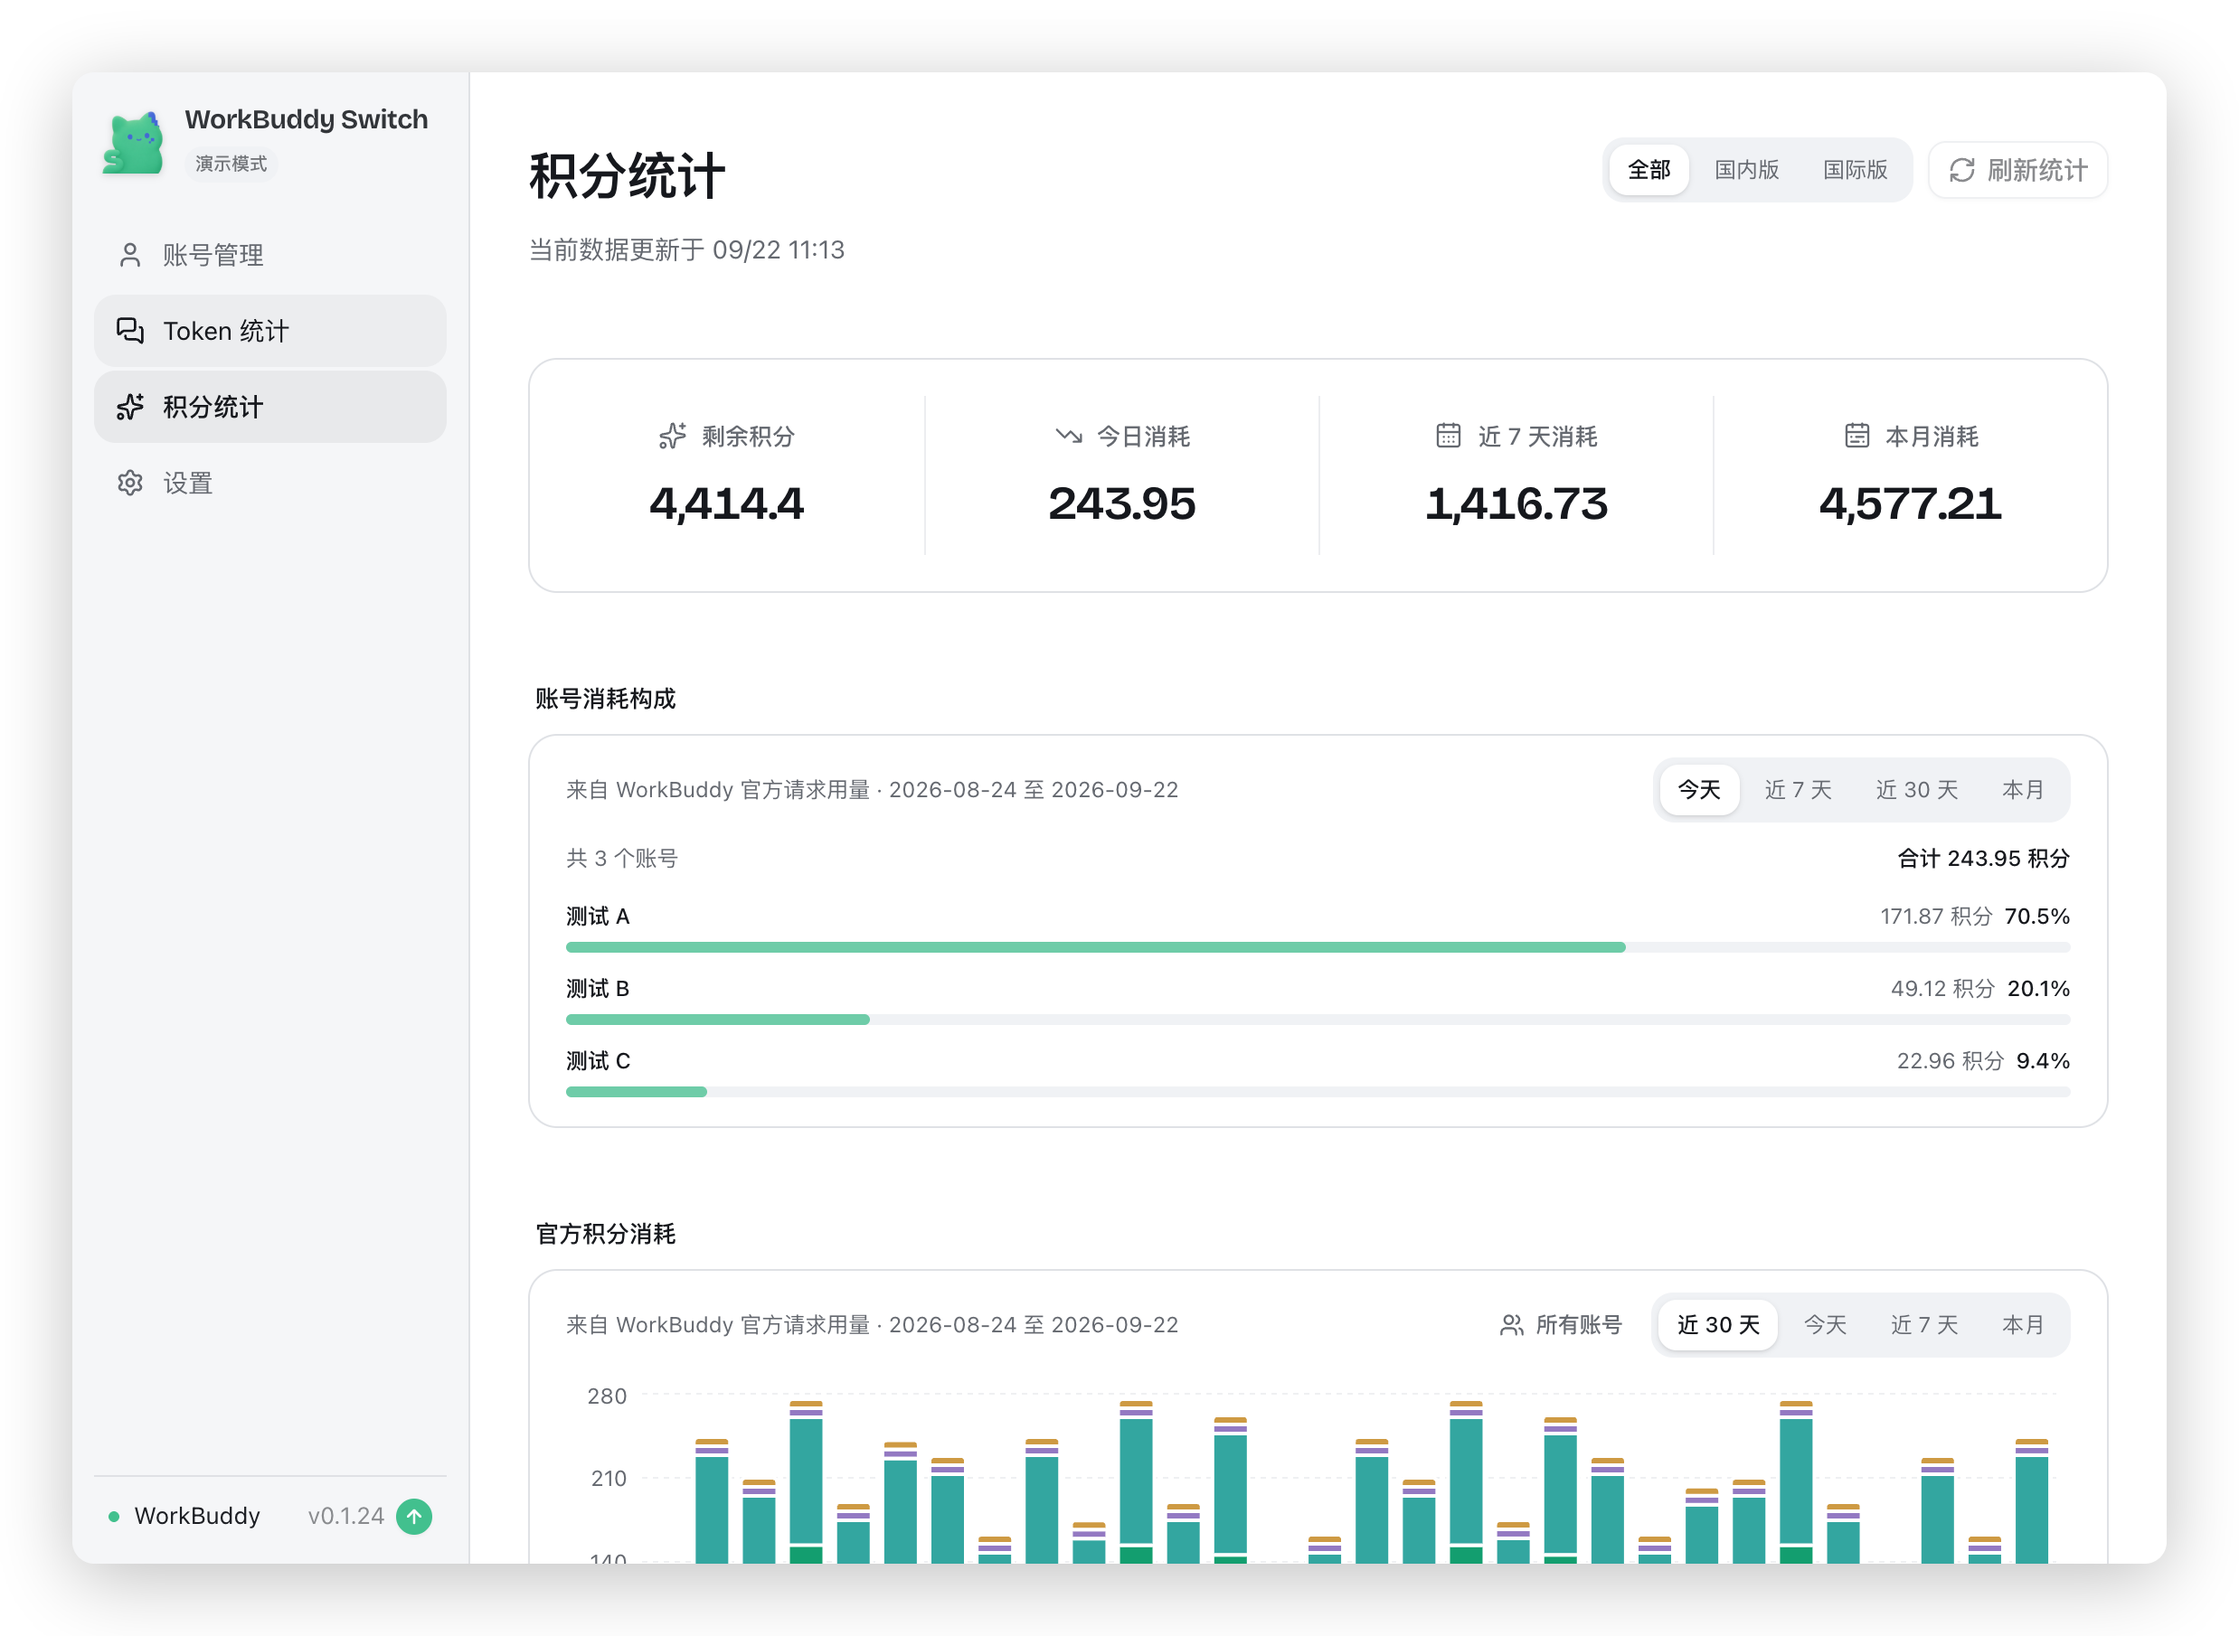
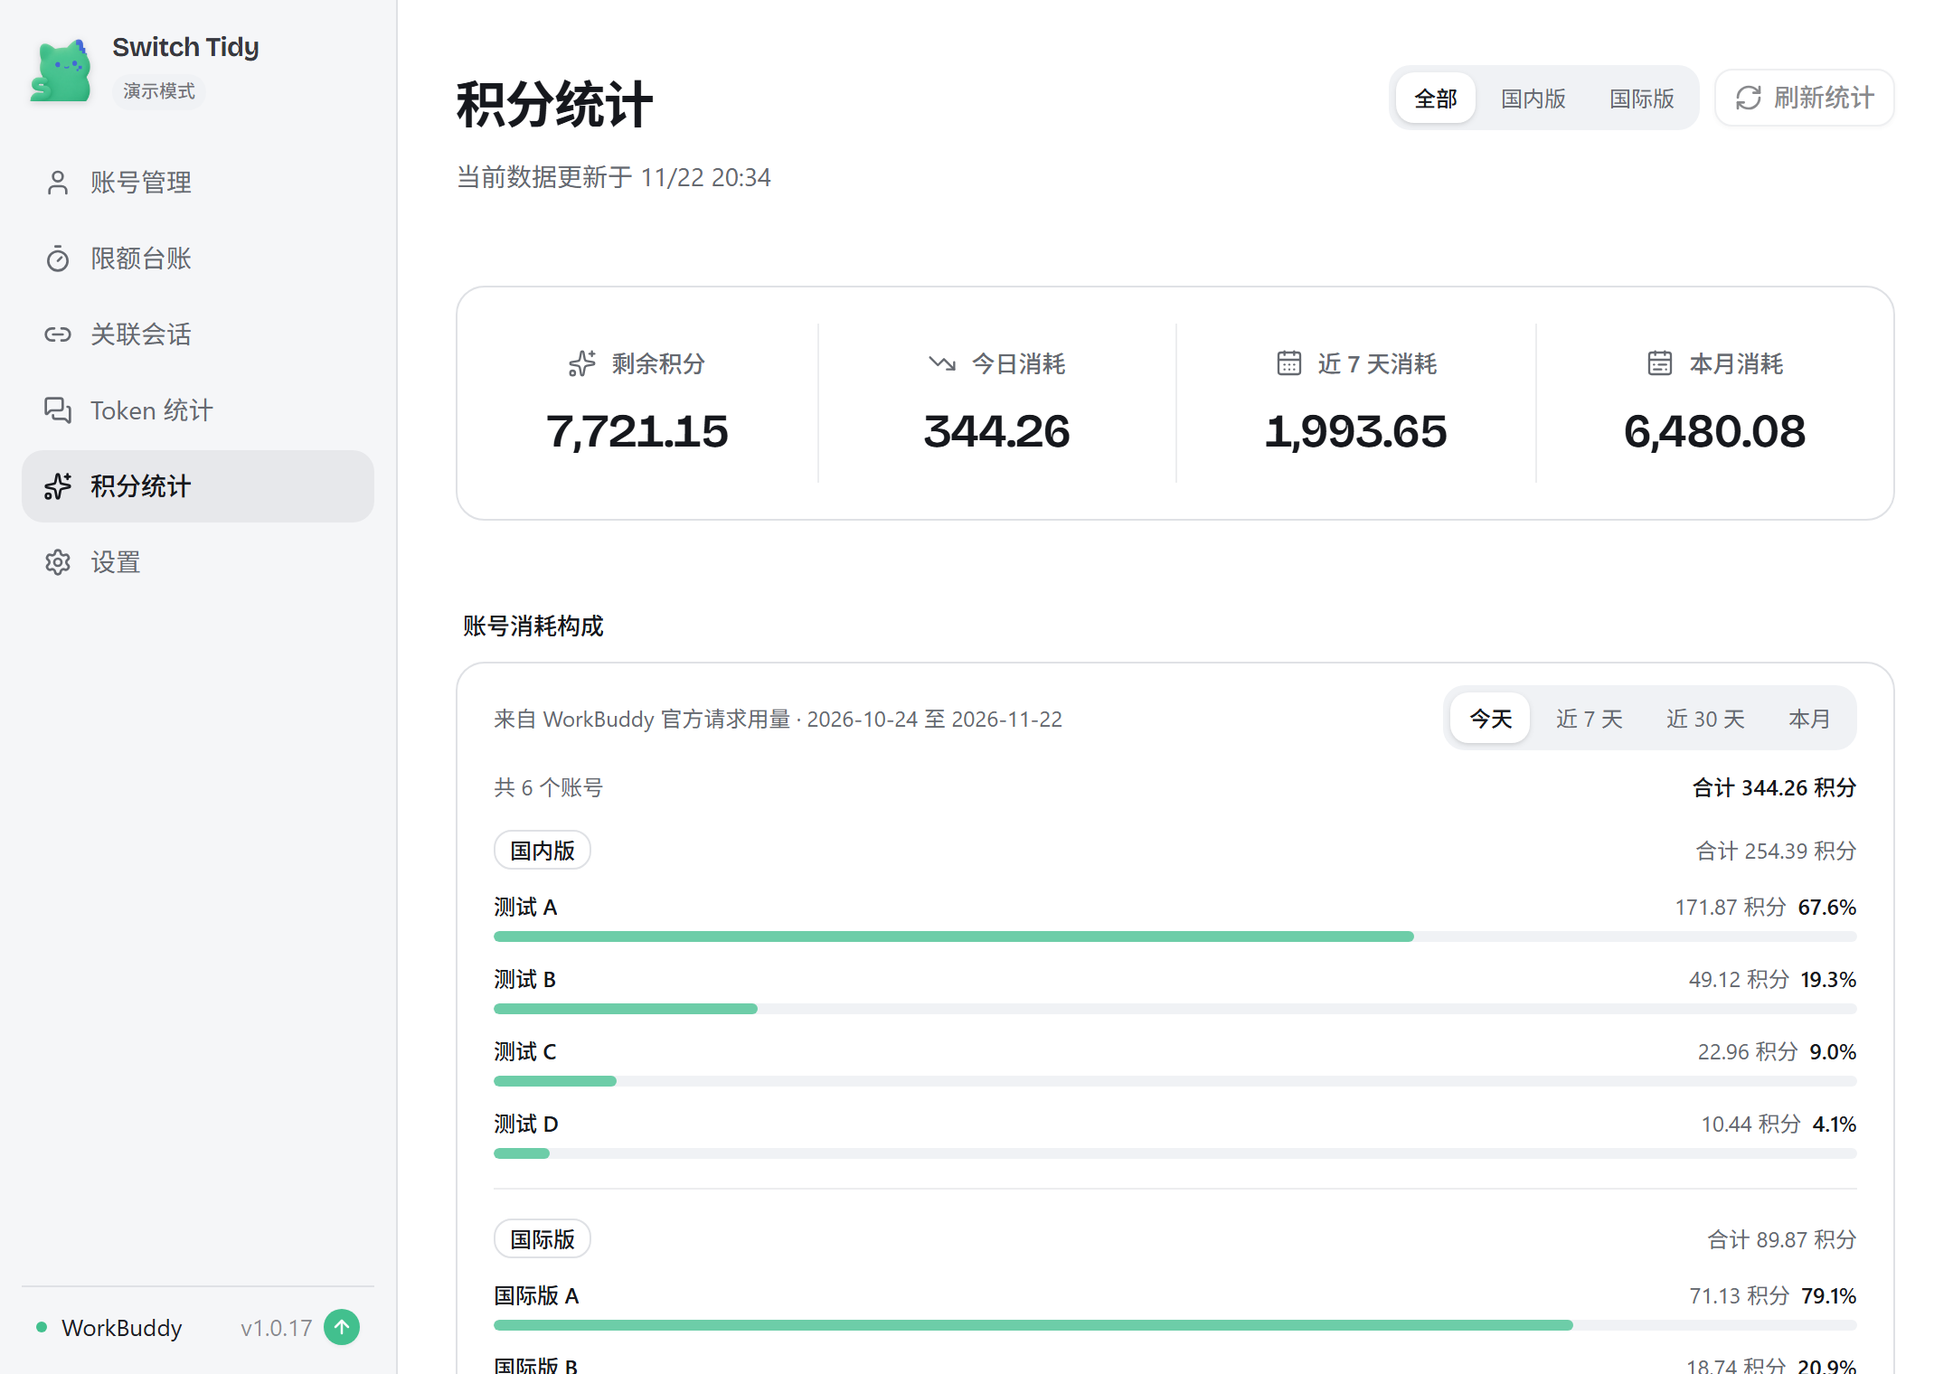
docs: 重生成界面截图、更新 README，并修掉演示数据里的写死版本与上游地址
截图与隐私
- 新增 scripts/capture-docs-screenshots.py：拉起演示模式 vite（VITE_DEMO_MODE=1）
  并用系统浏览器 + CDP 按路由截图，复用 smoke-webui.py 的 MiniWs，零新依赖。
  截图全部来自合成数据（测试 A/B/C、合成会话标题），不含真实账号/邮箱/令牌/本地路径。
- 重生成 5 张 README 截图（此前是 9-10 月的老图，缺逻辑会话/消息级差异/搜索等入口）。
- 删除 8 张未被引用且过期的旧图（含两张早期手工脱敏截图），减少误导与隐私面。
- README「界面预览」补充说明：截图由演示模式自动生成，并给出重生成命令。

演示数据修正
- 版本号不再写死 "0.1.24"：vite.config.ts 用 define 注入 package.json 版本，
  统一经 src/lib/app-version.ts 读取（单测环境用 typeof 兜底，避免 __APP_VERSION__ 未定义）。
- 演示的更新提示地址此前指向上游仓库，改为本项目的 releases 页。

README 内容
- 功能表补充 10 项 1.0.17 能力（逻辑会话 / 消息级差异 / 全局搜索 / 会话导出 /
  账号异常提醒 / 账号资料迁移 / 加密备份 / 存储管理 / 重复审计）。
- 更新日志把「未发布（开发中）」替换为 v1.0.17 摘要并链接 Release。

验证：tsc 通过；vite build 成功；运行时冒烟 __WB_MOUNTED__ === true；
前端 9 个测试文件全过；版本一致性与 PII 门禁通过。

diff --git a/src/lib/screenshot-demo.ts b/src/lib/screenshot-demo.ts
@@ -1,3 +1,5 @@
+import { APP_VERSION } from "@/lib/app-version";
+import { GITHUB_REPOSITORY_URL } from "@/lib/update";
 import type {
   AccountMeta, AppStatus, AutoRotateConfig, CheckinConfig, CheckinLog,
   CodeBuddyCliStatus, CodeBuddyCliSwitchResult, CodeBuddyCnIdeStatus, CreditExpiry, CreditOfficialUsageModel, CreditStatistics,
@@ -778,7 +780,7 @@ function buildDemoSessionGroups(
 /** Read-only demo response provider. It never reads or mutates real user data. */
 export function screenshotDemoResponse(command: string, args?: Record<string, unknown>): unknown {
   const demoAccounts = hydratedAccounts();
-  const appStatus: AppStatus = { running: true, authFile: "/demo/workbuddy/auth.json", current: { uid: demoAccounts[0].uid, nickname: demoAccounts[0].nickname, email: demoAccounts[0].email }, appPath: "/demo/WorkBuddy.app", version: "0.1.24" };
+  const appStatus: AppStatus = { running: true, authFile: "/demo/workbuddy/auth.json", current: { uid: demoAccounts[0].uid, nickname: demoAccounts[0].nickname, email: demoAccounts[0].email }, appPath: "/demo/WorkBuddy.app", version: APP_VERSION };
   const activeIndex = Math.max(0, demoAccounts.findIndex((account) => account.id === demoActiveCliAccountId));
   const activeAccount = demoAccounts[activeIndex] ?? demoAccounts[0];
   const cliStatus: CodeBuddyCliStatus = { configured: true, settingsPresent: true, helperPresent: true, helperSupportsAccountIds: true, activeIndex, activeAccountId: activeAccount.id, activeAccountName: activeAccount.nickname, activeAccountVariant: accountVariant(activeAccount), accountCount: demoAccounts.length, statePath: "/demo/codebuddy-cli-state.json" };
@@ -1000,7 +1002,7 @@ export function screenshotDemoResponse(command: string, args?: Record<string, un
     case "rotate_status": return rotateStatus;
     case "get_rotate_logs": return { logs: rotateLogs() };
     case "get_github_config": return githubConfig;
-    case "check_update": return { ok: true, current: "0.1.24", latest: "0.1.25", latestTag: "v0.1.25", hasUpdate: true, releaseName: "更新提示演示", releaseUrl: "https://github.com/changexbc/workbuddy-switch/releases/tag/v0.1.25" };
+    case "check_update": return { ok: true, current: APP_VERSION, latest: APP_VERSION, latestTag: `v${APP_VERSION}`, hasUpdate: true, releaseName: "更新提示演示", releaseUrl: `${GITHUB_REPOSITORY_URL}/releases/latest` };
     case "get_launch_at_login_enabled": return true;
     case "switch_progress": return { running: false, progress: null };
     default: throw new Error(`演示模式缺少只读数据: ${command}`);

diff --git a/vite.config.ts b/vite.config.ts
@@ -1,4 +1,5 @@
 import { defineConfig } from "vite";
+import { readFileSync } from "node:fs";
 import react from "@vitejs/plugin-react";
 import tailwindcss from "@tailwindcss/vite";
 import postcss from "postcss";
@@ -49,7 +50,16 @@ function legacyCssPlugin() {
 }
 
 // https://vite.dev/config/
+// 构建期注入版本号：演示数据（截图 / README）与关于页都用它，
+// 避免出现「界面写死 v0.1.24」这种与真实版本脱节的情况（2026-11-22 踩到）。
+const appVersion = JSON.parse(
+  readFileSync(new URL("./package.json", import.meta.url), "utf8"),
+).version as string;
+
 export default defineConfig(async () => ({
+  define: {
+    __APP_VERSION__: JSON.stringify(appVersion),
+  },
   base,
   plugins: [react(), tailwindcss(), legacyCssPlugin()],
   resolve: {

diff --git a/src/lib/app-version.ts b/src/lib/app-version.ts
@@ -1,0 +1,9 @@
+/**
+ * 应用版本号的唯一读取入口。
+ *
+ * 值由 `vite.config.ts` 的 `define` 在构建期注入（来自 package.json）。
+ * 单测（vitest）与个别工具链不注入 define，因此这里用 `typeof` 兜底，
+ * 避免出现 `__APP_VERSION__ is not defined` 这类与业务无关的测试失败。
+ */
+export const APP_VERSION: string =
+  typeof __APP_VERSION__ === "string" ? __APP_VERSION__ : "0.0.0-dev";

diff --git a/src/vite-env.d.ts b/src/vite-env.d.ts
@@ -1,1 +1,4 @@
 /// <reference types="vite/client" />
+
+/** 构建期注入的应用版本（来自 package.json，见 vite.config.ts）。 */
+declare const __APP_VERSION__: string;

diff --git a/scripts/capture-docs-screenshots.py b/scripts/capture-docs-screenshots.py
@@ -1,0 +1,191 @@
+#!/usr/bin/env python3
+"""重生成 README 用的界面截图（演示模式数据，天然不含真实账号信息）。
+
+背景：`docs/images/*.png` 是手工截的，功能一多就过期；演示模式（VITE_DEMO_MODE=1）
+自带"演示模式"角标与合成账号（测试 A/B/C），不会泄露真实账号 / 邮箱 / 路径。
+
+做法：起一个 vite（演示模式）→ 用系统浏览器 + CDP 逐路由截图。
+不引新依赖，复用 scripts/smoke-webui.py 里的 MiniWs 客户端。
+
+用法：
+    python scripts/capture-docs-screenshots.py          # 生成 docs/images 下的 5 张
+    python scripts/capture-docs-screenshots.py --port 5199
+前置：需先 npm ci；脚本会自己拉起 vite 并在结束后关闭。
+"""
+
+from __future__ import annotations
+
+import argparse
+import base64
+import importlib.util
+import json
+import os
+import socket
+import subprocess
+import sys
+import time
+import urllib.request
+from pathlib import Path
+
+ROOT = Path(__file__).resolve().parent.parent
+OUT_DIR = ROOT / "docs" / "images"
+
+# 路由 → 输出文件名（与 README 里的引用保持一致）
+# (路由, 输出文件名, 点击目标文字 —— 为 None 表示直接截列表页)
+# 演示数据里的会话标题是固定的合成标题，点开它即可截到详情/分支图。
+PAGES = [
+    ("/", "accounts-overview.png", None),
+    ("/sessions", "session-links.png", None),
+    ("/sessions", "session-links-branches.png", "整理长时间未完成的任务"),
+    ("/credit-stats", "credit-statistics.png", None),
+    ("/token-stats", "token-statistics.png", None),
+]
+VIEWPORT = (1080, 760)
+SETTLE_SECONDS = 3.0
+
+
+def load_ws_client():
+    spec = importlib.util.spec_from_file_location("smoke", ROOT / "scripts" / "smoke-webui.py")
+    module = importlib.util.module_from_spec(spec)
+    spec.loader.exec_module(module)
+    return module
+
+
+def wait_port(port: int, timeout: float = 90.0) -> bool:
+    deadline = time.time() + timeout
+    while time.time() < deadline:
+        try:
+            with socket.create_connection(("127.0.0.1", port), timeout=0.6):
+                return True
+        except OSError:
+            time.sleep(0.4)
+    return False
+
+
+def wait_cdp(port: int, timeout: float = 40.0) -> bool:
+    deadline = time.time() + timeout
+    while time.time() < deadline:
+        try:
+            with urllib.request.urlopen(f"http://127.0.0.1:{port}/json/version", timeout=1.5):
+                return True
+        except Exception:
+            time.sleep(0.4)
+    return False
+
+
+def cdp_call(ws, message_id: int, method: str, params: dict):
+    ws.send_text(json.dumps({"id": message_id, "method": method, "params": params}))
+    for _ in range(400):
+        raw = ws.recv_text()
+        try:
+            message = json.loads(raw)
+        except json.JSONDecodeError:
+            continue
+        if message.get("id") == message_id:
+            if "error" in message:
+                raise RuntimeError(f"{method} 失败: {message['error']}")
+            return message.get("result", {})
+    raise RuntimeError(f"{method} 超时")
+
+
+def main() -> int:
+    parser = argparse.ArgumentParser(description="生成 README 界面截图（演示模式）")
+    parser.add_argument("--port", type=int, default=5199, help="vite 端口")
+    parser.add_argument("--debug-port", type=int, default=9333, help="浏览器 CDP 端口")
+    args = parser.parse_args()
+
+    smoke = load_ws_client()
+    browser = smoke.find_browser()
+    if not browser:
+        print("❌ 未找到浏览器（Edge/Chrome），无法截图", file=sys.stderr)
+        return 1
+
+    OUT_DIR.mkdir(parents=True, exist_ok=True)
+    node = os.environ.get("WB_NODE") or "node"
+    vite = subprocess.Popen(
+        [node, str(ROOT / "node_modules" / "vite" / "bin" / "vite.js"),
+         "--port", str(args.port), "--strictPort", "--host", "127.0.0.1"],
+        cwd=str(ROOT),
+        env={**os.environ, "VITE_DEMO_MODE": "1"},
+        stdout=subprocess.DEVNULL,
+        stderr=subprocess.STDOUT,
+    )
+    profile = os.path.join(os.environ.get("TEMP", "/tmp"), f"wb-shots-{os.getpid()}")
+    chrome = subprocess.Popen(
+        [browser, "--headless=new", "--disable-gpu", "--no-sandbox", "--no-first-run",
+         "--hide-scrollbars", f"--remote-debugging-port={args.debug_port}",
+         f"--user-data-dir={profile}", "about:blank"],
+        stdout=subprocess.DEVNULL, stderr=subprocess.DEVNULL,
+    )
+    ws = None
+    try:
+        if not wait_port(args.port):
+            print("❌ vite 未就绪", file=sys.stderr)
+            return 1
+        if not wait_cdp(args.debug_port):
+            print("❌ 浏览器 CDP 未就绪", file=sys.stderr)
+            return 1
+        base = f"http://127.0.0.1:{args.port}"
+        urllib.request.urlopen(
+            urllib.request.Request(
+                f"http://127.0.0.1:{args.debug_port}/json/new?{base}{PAGES[0][0]}", method="PUT"
+            ),
+            timeout=10,
+        ).read()
+        time.sleep(1.0)
+        targets = json.loads(
+            urllib.request.urlopen(f"http://127.0.0.1:{args.debug_port}/json/list", timeout=10).read()
+        )
+        page = next((t for t in targets if t.get("type") == "page"), None)
+        if not page:
+            print("❌ 未取到页面目标", file=sys.stderr)
+            return 1
+        ws = smoke.MiniWs(page["webSocketDebuggerUrl"], timeout=60)
+        cdp_call(ws, 1, "Page.enable", {})
+        cdp_call(ws, 2, "Emulation.setDeviceMetricsOverride", {
+            "width": VIEWPORT[0], "height": VIEWPORT[1],
+            "deviceScaleFactor": 2, "mobile": False,
+        })
+
+        message_id = 10
+        for route, filename, click_text in PAGES:
+            message_id += 1
+            cdp_call(ws, message_id, "Page.navigate", {"url": f"{base}{route}"})
+            time.sleep(SETTLE_SECONDS)
+            if click_text:
+                # 点开指定标题的会话卡片/链接（演示数据标题是合成的，稳定可点）
+                message_id += 1
+                cdp_call(ws, message_id, "Runtime.evaluate", {
+                    "expression": (
+                        "(() => {"
+                        f"  const target = {click_text!r};"
+                        "  const nodes = Array.from(document.querySelectorAll('button,a,div,h3,span'));"
+                        "  const hit = nodes.filter((el) => el.textContent && el.textContent.trim() === target && el.children.length === 0).pop();"
+                        "  if (!hit) { return 'miss'; }"
+                        "  (hit.closest('button,a,div[role=button]') || hit).click();"
+                        "  return 'clicked';"
+                        "})()"
+                    ),
+                    "returnByValue": True,
+                })
+                time.sleep(2.5)
+            message_id += 1
+            result = cdp_call(ws, message_id, "Page.captureScreenshot", {"format": "png"})
+            data = base64.b64decode(result["data"])
+            path = OUT_DIR / filename
+            path.write_bytes(data)
+            print(f"✅ {filename}  {len(data) / 1024:.0f} KB  ({route})")
+        return 0
+    finally:
+        if ws:
+            ws.close()
+        for proc in (chrome, vite):
+            proc.terminate()
+            try:
+                proc.wait(timeout=8)
+            except subprocess.TimeoutExpired:
+                proc.kill()
+
+
+if __name__ == "__main__":
+    sys.exit(main())
